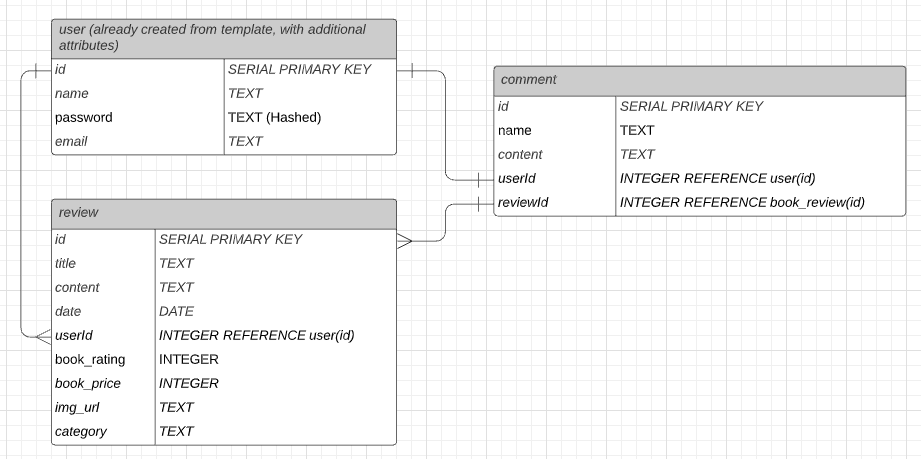
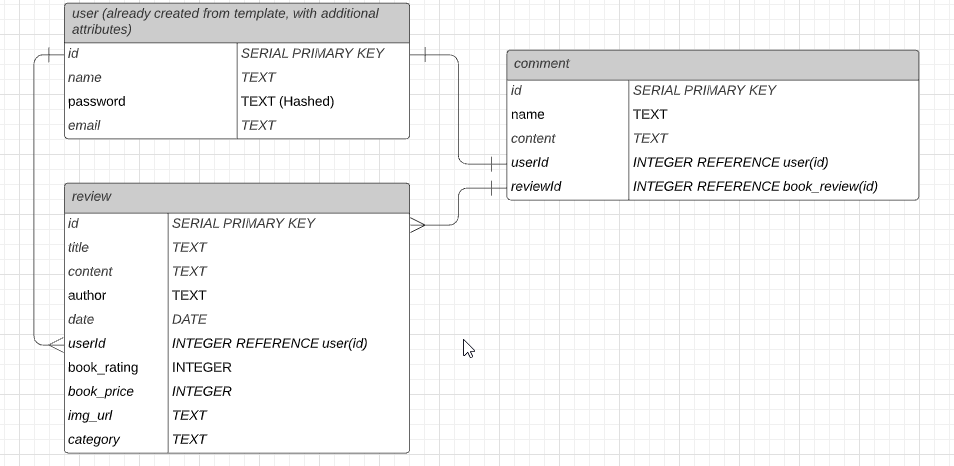
added new column (author) to review model

diff --git a/seeders/20210517190443-demo-reviews.js b/seeders/20210517190443-demo-reviews.js
@@ -10,6 +10,7 @@ const reviewData = [
     book_price:4,
     img_url:"https://i.gr-assets.com/images/S/compressed.photo.goodreads.com/books/1572098085l/18135._SY475_.jpg",
     category:'Drama',
+    author:'William Shakespeare',
     createdAt: new Date(),
     updatedAt: new Date()
   },
@@ -21,6 +22,7 @@ const reviewData = [
     book_price:4,
     img_url:"https://i.gr-assets.com/images/S/compressed.photo.goodreads.com/books/1572098085l/18135._SY475_.jpg",
     category:'Horror',
+    author:"Bram Stoker",
     createdAt: new Date(),
     updatedAt: new Date()
   
@@ -33,8 +35,33 @@ const reviewData = [
     book_price:10,
     img_url:"https://i.gr-assets.com/images/S/compressed.photo.goodreads.com/books/1310082706l/19668.jpg",
     category:"Action",
+    author:"Tom Clancy",
     createdAt: new Date(),
     updatedAt: new Date()
+  },
+  {
+    title:"I Am Not Spock",
+    content:`I am a fan of Star Trek, in particular the original series movies. I've also had occasion to listen to Mr. Nimoy speak twice, so I was looking forward to reading this infamously titled autobiography. I wasn't disappointed, and the 'voice' in the book matched up with my expectations for the most part. Not a heavy ready, it's a pretty slim book, but I enjoyed it quite a bit. I don't know that I'd recommend it to the rabid Trekkie, since it really isn't focused on the series. I'm about to start on 'I Am Spock' next, and I'm looking forward to seeing how Mr. Nimoy's writing developed from one book to the next.`,
+    book_rating:4,
+    book_price:10,
+    img_url:'https://i.gr-assets.com/images/S/compressed.photo.goodreads.com/books/1331448368l/580882.jpg',
+    category:'Biography',
+    author:"Leonard Nimoy",
+    createdAt: new Date(),
+    updatedAt: new Date()
+  },
+  {
+      title: 'The Shining',
+      content: 'The Shining is a ghost story told the way it should be. The characters are strong and endaring, all in their own right. I actually really like Jack Torrance. He has personality, plenty of flaws, and he’s just like every John Doe next door. Stephen King does an excellent job describing Jack’s descent into madness. Danny is another great character. He’s timid and shy and a small kid, but at the same time he’s the most powerful of all characters, with a gift that might be their only chance to escape.Suspenseful from the get-go, thrilling and terrifying, this is a great novel. I want to see the movie now, but hope that won’t be a dissapointment. This is my first full-length novel read by Stephen King, and I can’t wait to dive into another one of his works soon.',
+      userId: 1,
+      book_rating: 5,
+      book_price: 5,
+      img_url: 'https://i.gr-assets.com/images/S/compressed.photo.goodreads.com/books/1353277730l/11588.jpg',
+      author: 'Stephen King',
+      category: 'Thriller',
+      createdAt: new Date(),
+      updatedAt: new Date()
+    
   }
 ]
 

diff --git a/dbTest.js b/dbTest.js
@@ -47,10 +47,10 @@ const makeReview = () =>{
 const findReview = () => {
     db.review.findAll()
     .then(foundReview =>{
-        console.log(foundReview[0].title)
+        console.log(foundReview[0].author)
     })
 }
-// findReview()
+findReview()
 
 // Add user to existing review
 const addUserToExistingReview = () =>{

diff --git a/models/review.js b/models/review.js
@@ -17,6 +17,7 @@ module.exports = (sequelize, DataTypes) => {
   };
   review.init({
     title: DataTypes.TEXT,
+    author: DataTypes.TEXT,
     content: DataTypes.TEXT,
     userId: DataTypes.INTEGER,
     book_rating: {

diff --git a/migrations/20210518184956-create-review.js b/migrations/20210518184956-create-review.js
@@ -11,6 +11,9 @@ module.exports = {
       title: {
         type: Sequelize.TEXT
       },
+      author: {
+        type: Sequelize.TEXT
+      },
       content: {
         type: Sequelize.TEXT
       },
